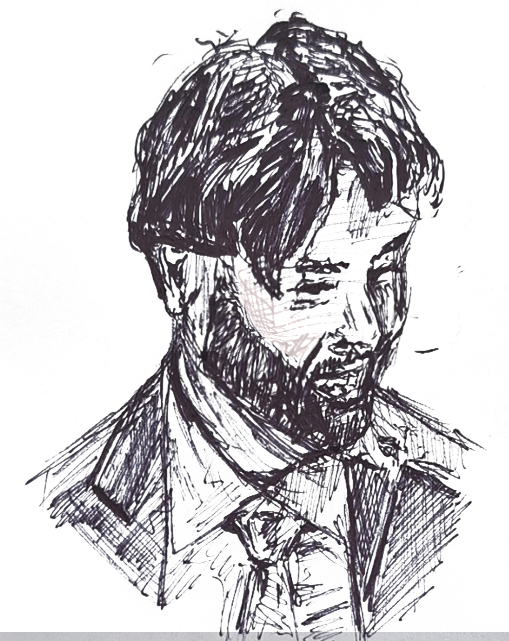
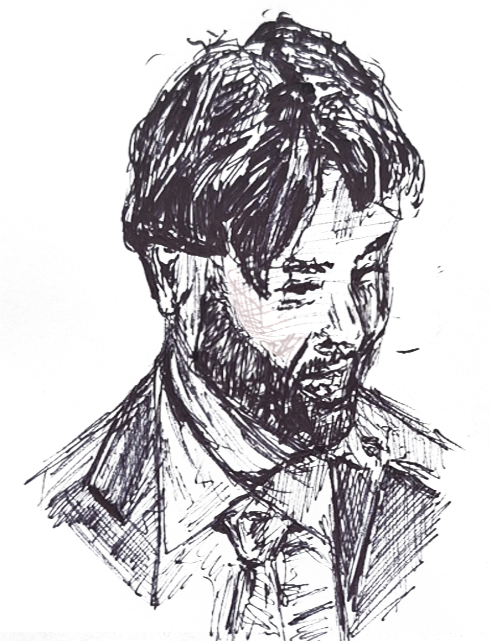
cosmetic

Changed region(s): [[0.0, 0.0, 1.0, 1.0], [0.8265, 0.5304, 0.8571, 0.5616]]

diff --git a/index.html b/index.html
@@ -7,14 +7,15 @@
     <link rel="stylesheet" href="style.css">
 </head>
 <body>
+    <div class="content-wrapper">
     <div class="header-section">
         <div class="name-contacts-container">
             <h1 class="main-name"><b>Avinash Krishna</b></h1>
             <div class="contacts-section">
                 <div>New York, NY</div>
                 <div>avikrish 001 [at] gmail [dot] com</div>
-                <div>Twitter [<a href="https://x.com/krishna_avi">@https://x.com/krishna_avi</a>]</div>
-                <div>GitHub [<a href="https://github.com/">@https://github.com/</a>]</div>
+                <div><a href="https://x.com/krishna_avi">Twitter</a></div>
+                <div><a href="https://github.com/p3rciv3l">GitHub</a></div>
             </div>
         </div>
         <img src="avi_drawing.png" alt="Avi Drawing" class="profile-image">
@@ -22,10 +23,6 @@
             <p>I am voracious consumer of media; at any time I am keeping up with multiple podcasts, authors, and artists, and am constantly reading. My dream girl is a reporter at Ars Tecnica who went to Brown. Separately, I also frequently angel invest and am working on LLM evals, the latter of which focuses on models' geospatial comprehension and was heavily inspired by <a href="https://outsidetext.substack.com/p/how-does-a-blind-model-see-the-earth">this blog post</a>.</p>
         </div>
     </div>
-    
-    <h2><b>Current Work and Interests</b></h2>
-    <p>Lorem ipsum dolor sit amet, consectetur adipiscing elit, sed do eiusmod tempor incididunt ut labore et dolore magna aliqua. Ut enim ad minim veniam, quis nostrud exercitation ullamco laboris nisi ut aliquip ex ea commodo consequat.</p>
-    <p>Duis aute irure dolor in reprehenderit in voluptate velit esse cillum dolore eu fugiat nulla pariatur. Excepteur sint occaecat cupidatat non proident, sunt in culpa qui officia deserunt mollit anim id est laborum.</p>
 
     <h2><b>Blog</b></h2>
     <ul>
@@ -54,5 +51,6 @@
         <li>- <a href="https://www.crunchbase.com/funding_round/coreweave-series-c--2a3b4c5d">CoreWeave</a> (Series C Extension)</li>
         <li>- Stealth Consumer AI Startup (Seed, Tier 1 Co-Investors)</li>
     </ul>
+    </div>
 </body>
 </html>

diff --git a/style.css b/style.css
@@ -13,6 +13,11 @@ body {
 }
 
 
+/* Universal content wrapper */
+.content-wrapper {
+    max-width: 600px;
+}
+
 /* Header section styling */
 .header-section {
     margin-bottom: 20px;
@@ -50,11 +55,11 @@ body {
 .profile-image {
     max-width: 200px;
     height: auto;
-    margin: 10px 0;
+    margin: 2px 0 10px 0;
 }
 
 .bio-section {
-    max-width: 600px; /* Roughly matches the width of the email address */
+    /* Width now controlled by universal content-wrapper */
 }
 
 /* Content styling */
